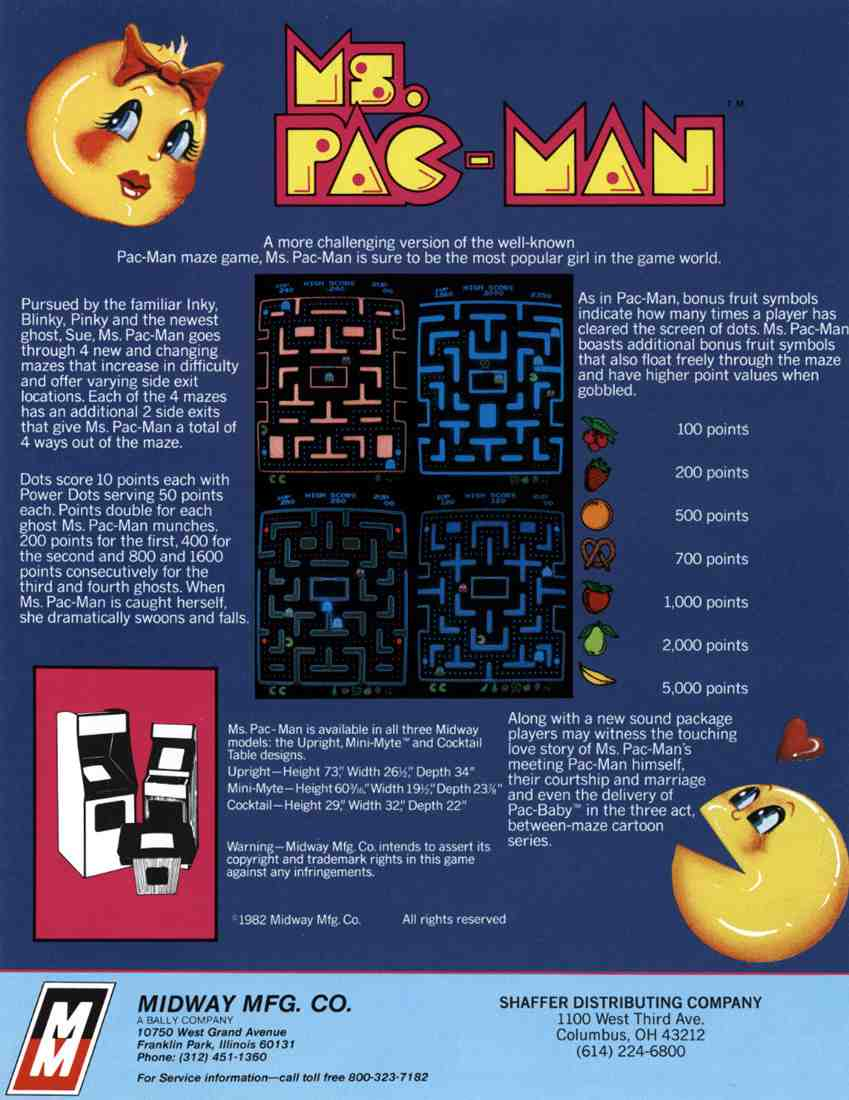
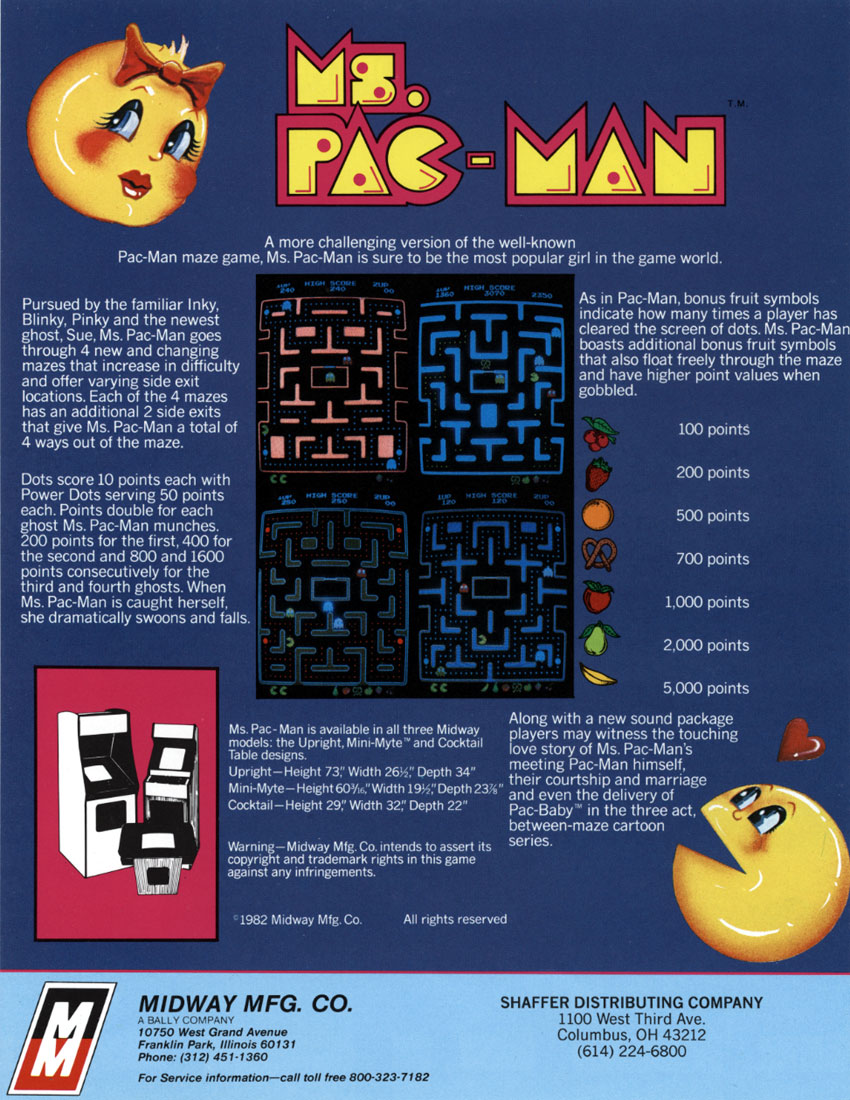
New XXL start page image

diff --git a/pacman-ui-2d/src/main/java/de/amr/games/pacman/ui2d/GameAssets2D.java b/pacman-ui-2d/src/main/java/de/amr/games/pacman/ui2d/GameAssets2D.java
@@ -256,7 +256,7 @@ public class GameAssets2D extends AssetStorage {
 
         assets.store("pacman_xxl.icon",                 rm.loadImage("graphics/icons/pacman.png"));
         assets.store("pacman_xxl.helpButton.icon",      rm.loadImage("graphics/icons/help-blue-64.png"));
-        assets.store("pacman_xxl.startpage.image1",     rm.loadImage("graphics/pacman_xxl/pacman_xxl_logo.png"));
+        assets.store("pacman_xxl.startpage.image1",     rm.loadImage("graphics/pacman_xxl/pacman_xxl_logo.jpg"));
 
         assets.store("pacman_xxl.spritesheet",          new PacManGameSpriteSheet(rm.loadImage("graphics/pacman/pacman_spritesheet.png")));
 

diff --git a/pacman-ui-2d/src/main/java/de/amr/games/pacman/ui2d/util/Carousel.java b/pacman-ui-2d/src/main/java/de/amr/games/pacman/ui2d/util/Carousel.java
@@ -92,7 +92,7 @@ public class Carousel extends StackPane {
         btnNextSlide.setOnAction(e -> nextSlide());
 
         btnSelect = createSelectButton(assets);
-        btnSelect.setTranslateY(-40);
+        btnSelect.setTranslateY(-50);
 
         StackPane.setAlignment(btnPrevSlide, Pos.CENTER_LEFT);
         StackPane.setAlignment(btnNextSlide, Pos.CENTER_RIGHT);
